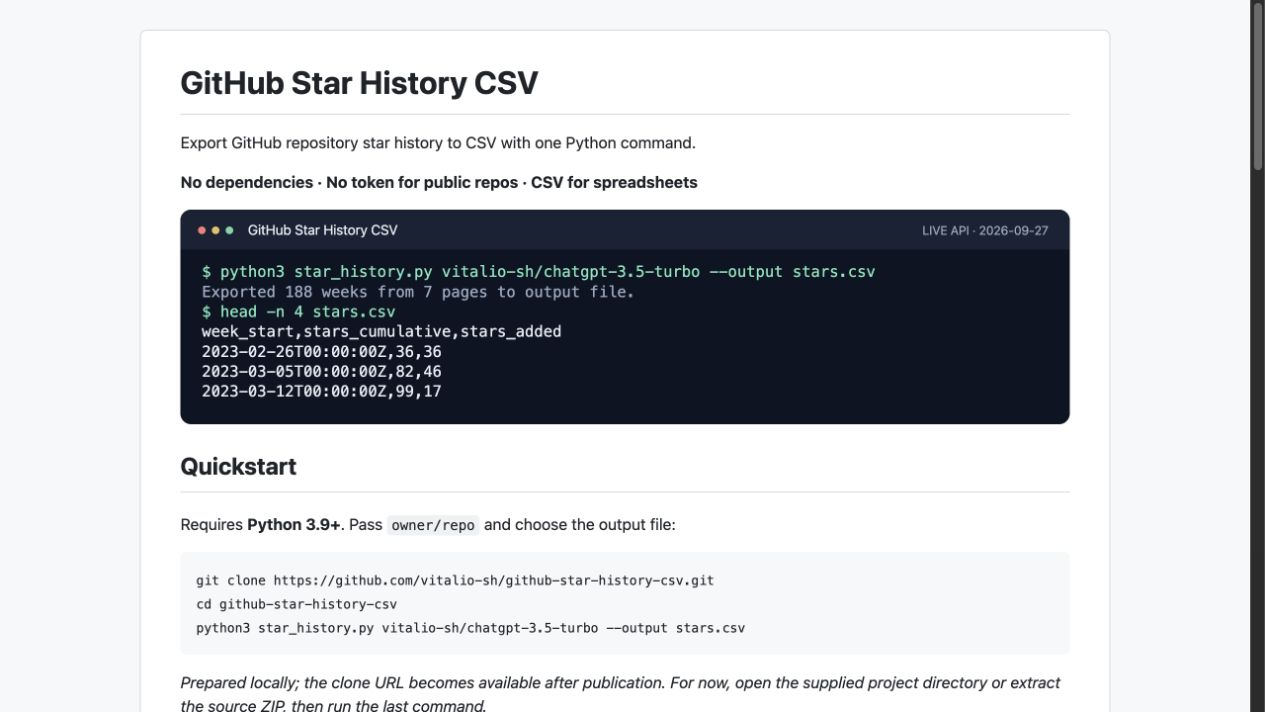
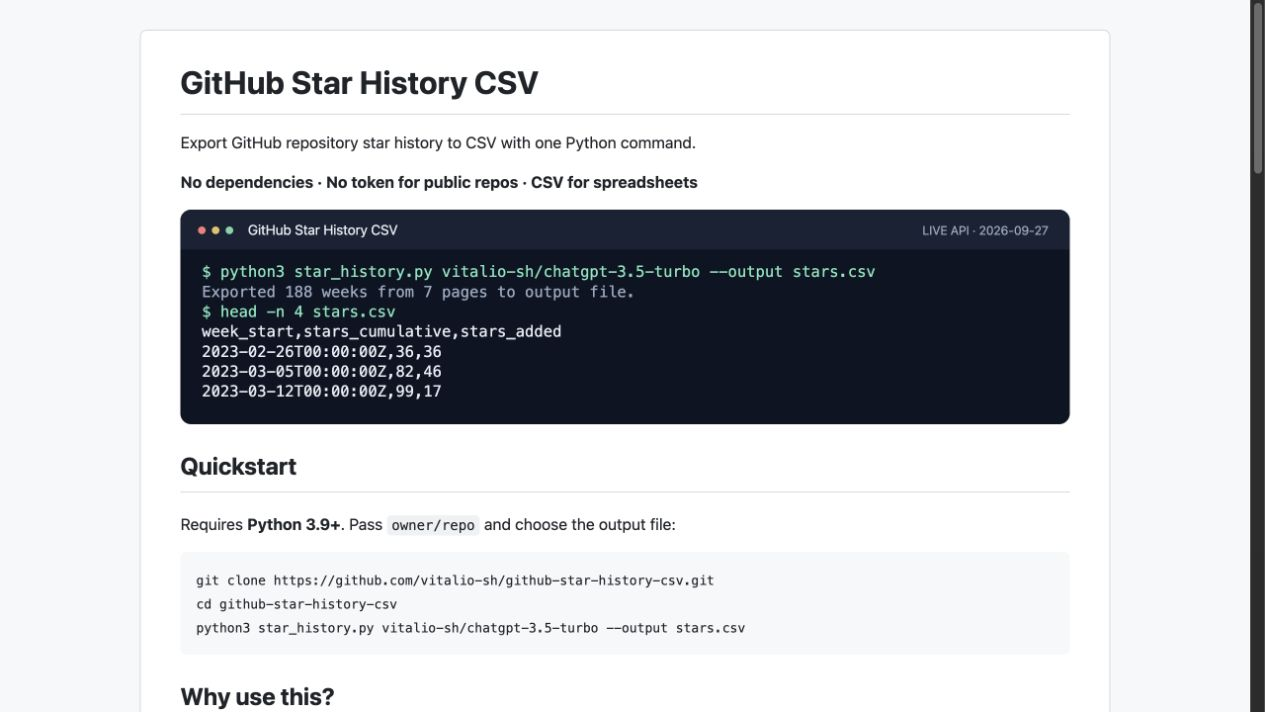
Record public clone and GitHub Actions validation

Changed region(s): [[0.1233, 0.927, 0.8324, 1.0]]

diff --git a/docs/validation.md b/docs/validation.md
@@ -75,10 +75,30 @@ API evidence, clean-copy transcript and release notes were refreshed together.
 The schema change preceded the first public release, v0.1.0.
 Detailed options and API notes now live in [usage.md](usage.md).
 
+## Publication checks
+
+The public repository was cloned from its HTTPS URL with no Git credentials and
+system/global Git configuration disabled. Its offline tests and release checks
+passed. A live export then returned 188 weeks with the three-column CSV; existing
+output protection also passed. See [the public-clone record](public-clone-run.json).
+
+The anonymous API quota had been exhausted by repeated release checks, so that
+attempt returned HTTP 403 and left no partial file. The final export used
+`GITHUB_TOKEN` from the active GitHub CLI account, without saving or logging it.
+Earlier anonymous successes remain recorded in [clean-run.json](clean-run.json).
+Private repository access has not been tested.
+
+GitHub Actions passed on Ubuntu for Python 3.9 and 3.13 on initial commit
+`3785ff9f70d881c7e76821c666e87fa6f5c1d5a2`:
+[successful workflow run](https://github.com/vitalio-sh/github-star-history-csv/actions/runs/36342569935).
+The release commit must also have a successful run before tagging. The public
+README was inspected on GitHub: the SVG loaded, the three Quickstart commands
+were visible together, and About/topics were set correctly.
+
 ## Remaining boundaries
 
-Private/token-authenticated repositories, Windows and GitHub Enterprise Server
+Private repositories, Windows and GitHub Enterprise Server
 have not been tested live. The API does not establish exact historical unstar
-balances or immutable snapshots. Live quota-exhaustion errors were simulated in
-unit tests rather than induced. See the Actions link above for remote CI status;
+balances or immutable snapshots. Quota-exhaustion handling passed offline tests and was also observed during
+publication checks. See the Actions link above for remote CI status;
 local test results alone do not establish that a remote workflow succeeded.

diff --git a/docs/usage.md b/docs/usage.md
@@ -61,7 +61,7 @@ Column order is `week_start,stars_cumulative,stars_added`. The file has one row 
 
 Public history works anonymously. If you need a higher rate allowance or access to a private repository, set `GITHUB_TOKEN` in your environment. The CLI reads only that variable; it does not discover credentials from GitHub CLI or a browser.
 
-The [official endpoint documentation](https://docs.github.com/en/rest/activity/starring?apiVersion=2026-03-10#get-repository-star-history) specifies **Metadata: read** for fine-grained tokens. Give the token access to the selected repository and any required organization authorization. GitHub App user and installation tokens are also documented. Authenticated/private access was not exercised in this release's live check.
+The [official endpoint documentation](https://docs.github.com/en/rest/activity/starring?apiVersion=2026-03-10#get-repository-star-history) specifies **Metadata: read** for fine-grained tokens. Give the token access to the selected repository and any required organization authorization. GitHub App user and installation tokens are also documented. Public access with a token was verified during publication checks; private repository access has not been tested.
 
 To enter a token without putting its value in shell history, use this Bash/Zsh snippet:
 

diff --git a/RELEASE.md b/RELEASE.md
@@ -30,6 +30,7 @@ The name was checked while authenticated as `vitalio-sh` before repository creat
 | [docs/validation.md](docs/validation.md) | Local and release checks |
 | [docs/readme-preview.png](docs/readme-preview.png) | First screen from a local rendering of README |
 | [docs/clean-run.json](docs/clean-run.json) | Fresh-copy command results |
+| [docs/public-clone-run.json](docs/public-clone-run.json) | Published-repository clone and live export checks |
 
 The terminal SVG renders a recorded command and output. No generated artwork or
 third-party visual assets are included.

diff --git a/docs/release-notes-v0.1.0.md b/docs/release-notes-v0.1.0.md
@@ -15,6 +15,6 @@ python3 star_history.py vitalio-sh/chatgpt-3.5-turbo --output stars.csv
 `week_start` labels the start of a GitHub weekly bucket; `stars_cumulative` includes that
 bucket. GitHub's bucket boundaries may differ from UTC calendar weeks. The
 series does not claim to reproduce historical net counts after unstars.
-Private/token access and Windows were not exercised in the local release check.
+Private repository access and Windows were not exercised in the release checks.
 
 MIT licensed. See README for the API contract, examples, and troubleshooting.
